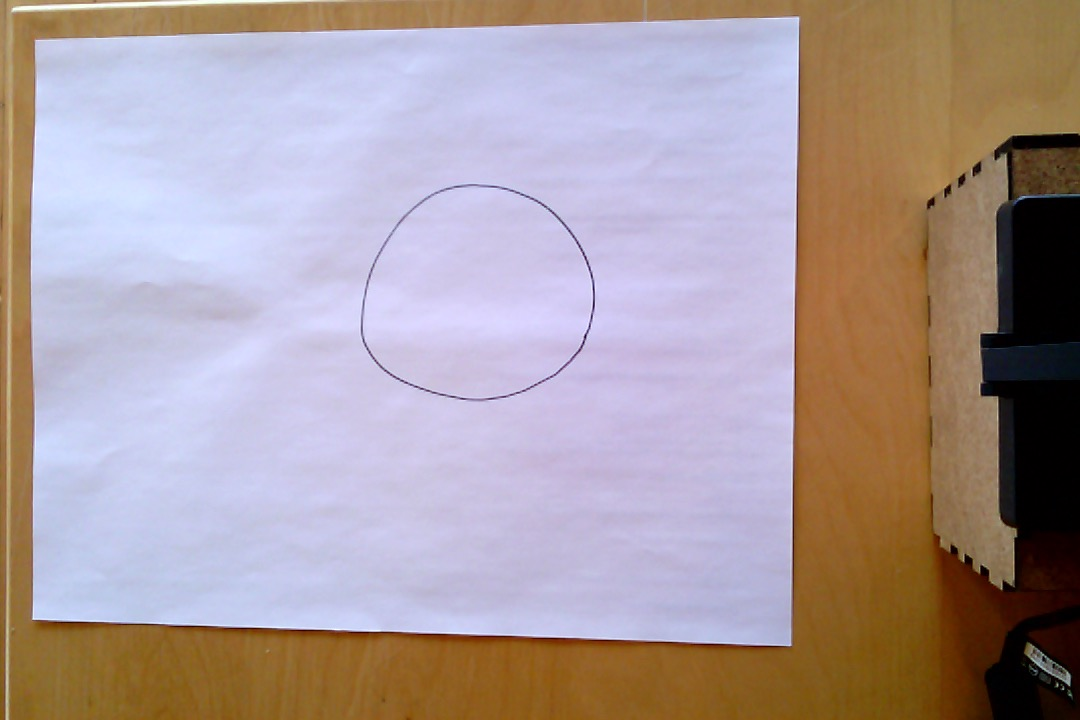
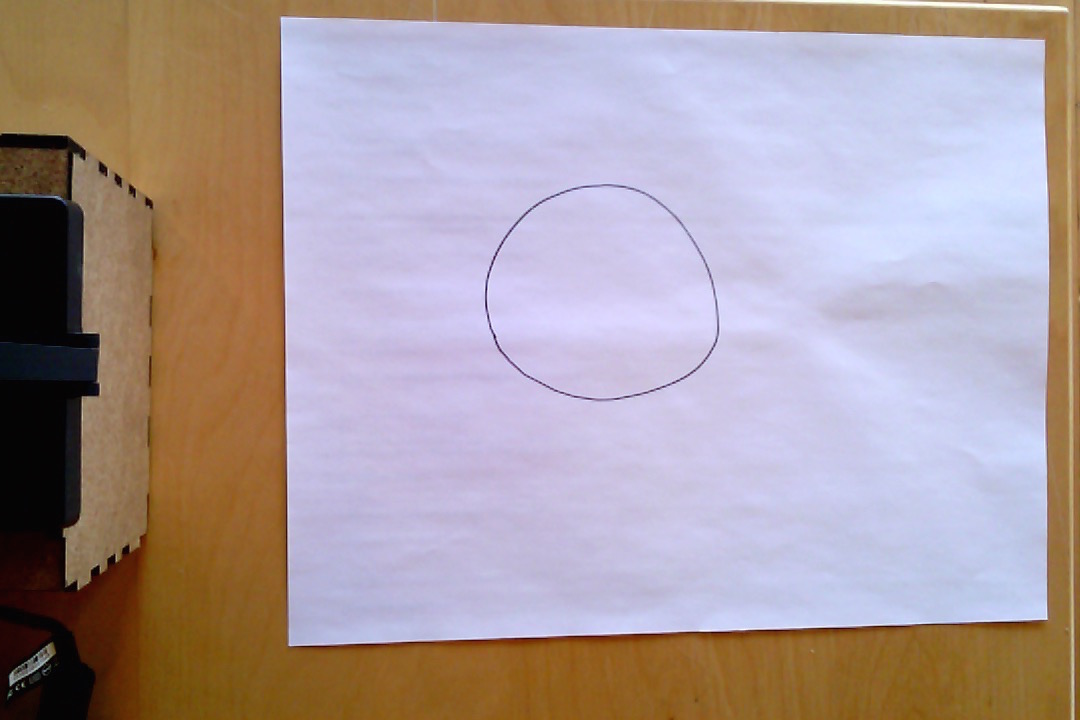
Fixed my Photo Booth’ed mirrored input images.

diff --git a/ddp/__main__.py b/ddp/__main__.py
@@ -83,28 +83,28 @@ def main():
     parser.add_option("--interactive", default=False, action="store_true", dest="interactive")
     parser.add_option("--image_source", default="newPhoto", type='string', action="store", dest="image_source",
         help="newPhoto, webcamStill, webcamStream, sample")  # TODO add custom file option
-    
+
     (options, args) = parser.parse_args()
-    
+
     pipeline_name = options.pipeline
     pipeline = importlib.import_module("pipeline." + pipeline_name)
     assert hasattr(pipeline, method_name_to_run), "module has to have "+method_name_to_run+" method"
-    
+
     log.clear_log_directory()
     log.set_file_prefix(pipeline_name)
-    
+
     if options.image_source == "webcamStream":
         options.interactive = True
         capture = cv2.VideoCapture(1)
         # resolution
         capture.set(3, 1920)
         capture.set(4, 1080)
-        
+
     if not options.log:
         log.set_method("silent")
     elif options.interactive:
         log.set_method("stream")
-    
+
     if options.image_source == "newPhoto":
         try:
             file = photoClient.get_photo_from_server()
@@ -112,13 +112,13 @@ def main():
         except Exception:
             print "could not get photo. using sample file instead."
             options.image_source = "sample"
-            
+
     if options.image_source == "sample":
         frame = pipeline.sample()
-        
+
     if options.image_source == "webcamStill":
         frame = intake.image_file(helper.take_picture_from_webcam())
-        
+
     assert frame is not None or capture is not None
     if options.interactive:
         # TODO reload only reloads the immediate file, not its dependencies
@@ -128,9 +128,9 @@ def main():
                 break
     else:
         run_once(pipeline, options)
-    
-    if not options.interactive and options.log:
-        cv2.waitKey(0)
+
+    # if not options.interactive and options.log:
+    #     cv2.waitKey(0)
     if options.image_source == "webcamStream":
         capture.release()
     cv2.destroyAllWindows()

diff --git a/ddp/pipeline/circle.py b/ddp/pipeline/circle.py
@@ -23,12 +23,11 @@ def run(img):
 
     log.image(img, circles=circles)
 
-    print list(circles)
     svg = printer.circles_to_svg(circles)
     printer.write_file("log/out.svg", svg)
     pdf = printer.svg_to_pdf("log/out.svg", "log/out.pdf")
     printer.write_file("log/out.pdf", pdf)
-    printer.print_pdf("log/out.pdf")
+    # printer.print_pdf("log/out.pdf")
 
     return graph
 
